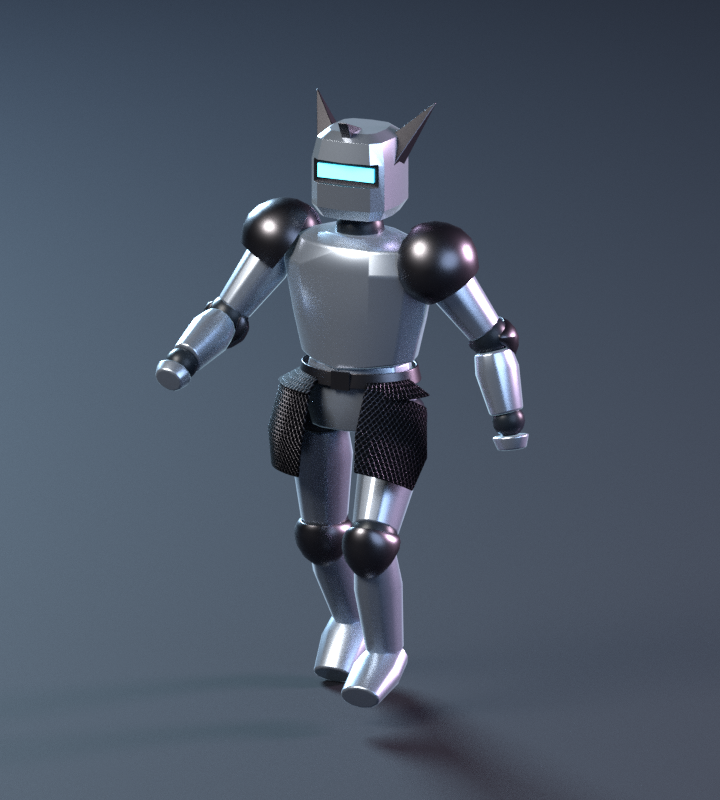
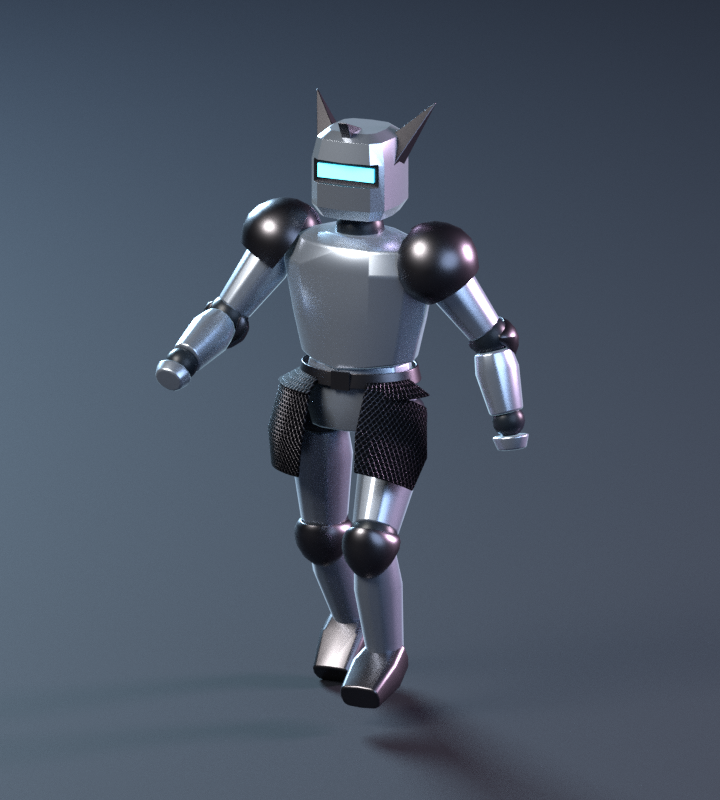
feat: squarish dark iron sabatons
Give the sabatons the helmet's rounded-box cross-section and the dark
iron finish of the other caps. Move the helmet's superellipse reshaping
into a shared squarish() helper used by both.

Changed region(s): [[0.4278, 0.75, 0.5806, 0.9062]]

diff --git a/dev-samples/3d-stage1/rigged-armor/build.py b/dev-samples/3d-stage1/rigged-armor/build.py
@@ -269,6 +269,21 @@ def plate(rig, bone_name, name, rings, mat, joint_inner_front=None, open_ends=Fa
     return obj
 
 
+def squarish(obj, rig, bone_name, rings, exponent=.575):
+    """Reshape a 12-sided plate's rings into rounded rectangles (a
+    superellipse; a lower exponent gives sharper corners)."""
+    matrix = rig.data.bones[bone_name].matrix_local
+    for row, (along, width, depth) in enumerate(rings):
+        for i in range(12):
+            angle = i * 2 * math.pi / 12
+            x, z = math.sin(angle), math.cos(angle)
+            obj.data.vertices[row * 12 + i].co = matrix @ Vector((
+                width * math.copysign(abs(x) ** exponent, x), along,
+                depth * math.copysign(abs(z) ** exponent, z)))
+    obj.data.update()
+    return obj
+
+
 def joint(rig, bone_name, radius, mat):
     bpy.ops.mesh.primitive_uv_sphere_add(segments=16, ring_count=8,
                                       radius=radius, location=BONES[bone_name][0])
@@ -469,16 +484,7 @@ def build_armor(rig):
     # A rounded box like the heroic player's helm: flat top, upright sides.
     helmet_rings = [(-.035,.1075,.1075),(.0,.13,.13),
                     (.14,.13,.13),(.2075,.115,.115),(.23,.085,.085)]
-    helmet = plate(rig, 'head', 'Helmet', helmet_rings, helm)
-    matrix = rig.data.bones['head'].matrix_local
-    for row, (along, width, depth) in enumerate(helmet_rings):
-        for i in range(12):
-            angle = i * 2 * math.pi / 12
-            x, z = math.sin(angle), math.cos(angle)
-            helmet.data.vertices[row * 12 + i].co = matrix @ Vector((
-                width * math.copysign(abs(x) ** .575, x), along,
-                depth * math.copysign(abs(z) ** .575, z)))
-    helmet.data.update()
+    helmet = squarish(plate(rig, 'head', 'Helmet', helmet_rings, helm), rig, 'head', helmet_rings)
     # Eye slot: a horizontal bar subtracted from the helmet front. It runs a
     # little past the helmet's width, so it cuts into the rounded front
     # corners and the recess shows from the side too. The cut faces take the
@@ -525,8 +531,10 @@ def build_armor(rig):
               [(-.025,.045,.052),(-.018,.061,.068),(-.004,.073,.08),
                (.014,.078,.085),(.032,.072,.079),(.045,.058,.064),(.05,.049,.055)], trim,
               joint_inner_front=True, open_ends=True, top_cap=False)
-        plate(rig, f'foot.{side}', f'Sabaton {side}',
-              [(-.025,.065,.055),(.075,.08,.06),(.20,.065,.04)], greaves)
+        # Squarish dark iron sabatons, matching the helmet's rounded box.
+        sabaton_rings = [(-.025,.065,.055),(.075,.08,.06),(.20,.065,.04)]
+        squarish(plate(rig, f'foot.{side}', f'Sabaton {side}', sabaton_rings, trim),
+                 rig, f'foot.{side}', sabaton_rings)
     for obj in bpy.context.scene.objects:
         if obj.name.startswith(('Pauldron ', 'Knee cap ', 'Elbow cap ')):
             bevel = obj.modifiers['Forged edge']

diff --git a/dev-samples/3d-stage1/rigged-armor/README.md b/dev-samples/3d-stage1/rigged-armor/README.md
@@ -32,7 +32,7 @@ Rotation で回転させる。回転はボーンのローカル座標。
 肘当てと膝当ても中空の殻で、曲がる軸の内側（肘は前、膝は後ろ）が開いている。
 開口部に向かって帯の幅が楕円状に狭まり、端は脚や腕に寄せて丸く閉じる。
 兜は heroic の主人公と同じく、天面が平らで側面が立った角の丸い箱形。縦の角と上下の縁は
-大きめに丸めている（断面の超楕円の指数0.575）。
+大きめに丸めている（断面の超楕円の指数0.575）。靴も同じ断面の角の丸い箱形で、黒い鉄製。
 覗き窓は兜から横長の棒（`Eye slot cutter`、レンダリングでは非表示）をブーリアンで
 引いた溝で、横から見ても前の角に切り込みが見える。溝の内側は黒い鉄で、奥の
 一回り小さい水色に光る窓の周りが黒い縁になる。棒を動かすと溝の位置や大きさを変えられる。
@@ -86,7 +86,7 @@ blender --background --threads 4 --python dev-samples/3d-stage1/rigged-armor/bui
 - `validate()`: 必須10関節の回転でパーツが実際に追従し、体積スケールが変化しないことを検証する。
 - `material()` / `setup_scene()`: 質感と照明。`../heroic/preview-player-facings.jpg` の
   主人公（`../build-heroic.py`）に合わせ、青みの鋼（縁がほのかに光る）、兜・脚用の鋼、
-  黒い鉄の肩・肘・膝当て、水色に光る覗き窓を使う。夜のスタジオの背景・床、
+  黒い鉄の肩・肘・膝当てと靴、水色に光る覗き窓を使う。夜のスタジオの背景・床、
   暖色のキー・寒色のフィル・左右の逆光、Medium High Contrast の色調も同じ。
 
 自動ウェイトは使わず、金属部分を硬い部品として扱う。首や肘・膝には暗色の
